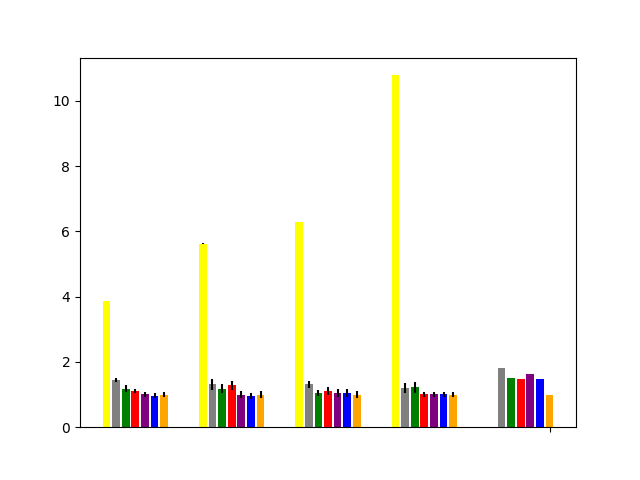
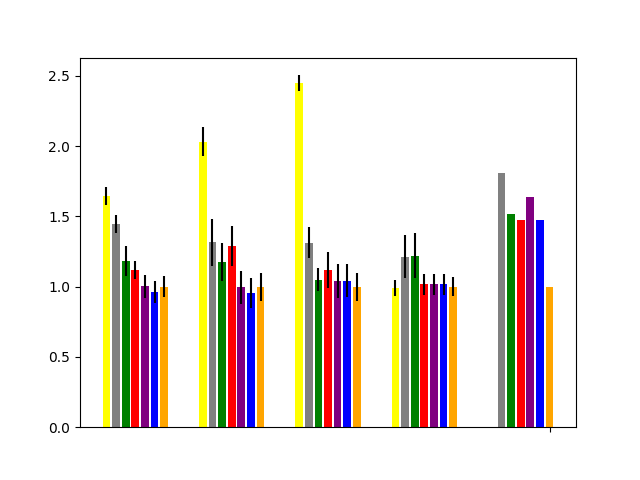
initial conditions

diff --git a/experiments/prediction/agents/PFGTDH.py b/experiments/prediction/agents/PFGTDH.py
@@ -11,17 +11,19 @@ class PFGTDH:
         
         self.gamma = params['gamma']
 
-        self.lower_bound = -1e5
-        self.upper_bound = 1e5
+        self.lower_bound = -1e6
+        self.upper_bound = 1e6
         self.wealth = np.array(params['wealth'])
         self.hints = np.ones(2)
         self.beta = np.zeros(2) # betting fraction, one for each of primal and dual
-        self.theta = np.zeros(features) # primal variable
-        self.y = np.zeros(features) # dual variable
         self.G = np.zeros((features, 2))
         self.u = np.random.uniform(size = (features, 2)) # initial direction for each of primal and dual
         self.u /= self.norm(self.u)
         self.A = np.zeros(2)
+
+        # weights
+        self.theta = np.zeros(features) # primal variable
+        self.y = np.zeros(features) # dual variable
 
         # average weights
         self.avg_theta = np.zeros(features)

diff --git a/experiments/prediction/figure1.py b/experiments/prediction/figure1.py
@@ -193,7 +193,11 @@ for run in range(RUNS):
 
             # for Baird's counter-example, set the initial value function manually
             if problem.get('starting_condition') is not None:
-                learner.w = problem['starting_condition'].copy()
+                if Learner.__name__ != "PFGTDH":
+                    learner.w = problem['starting_condition'].copy()
+                else:
+                    learner.theta = problem['starting_condition'].copy()
+                
 
             # build the experiment runner
             # ties together the agent and environment
